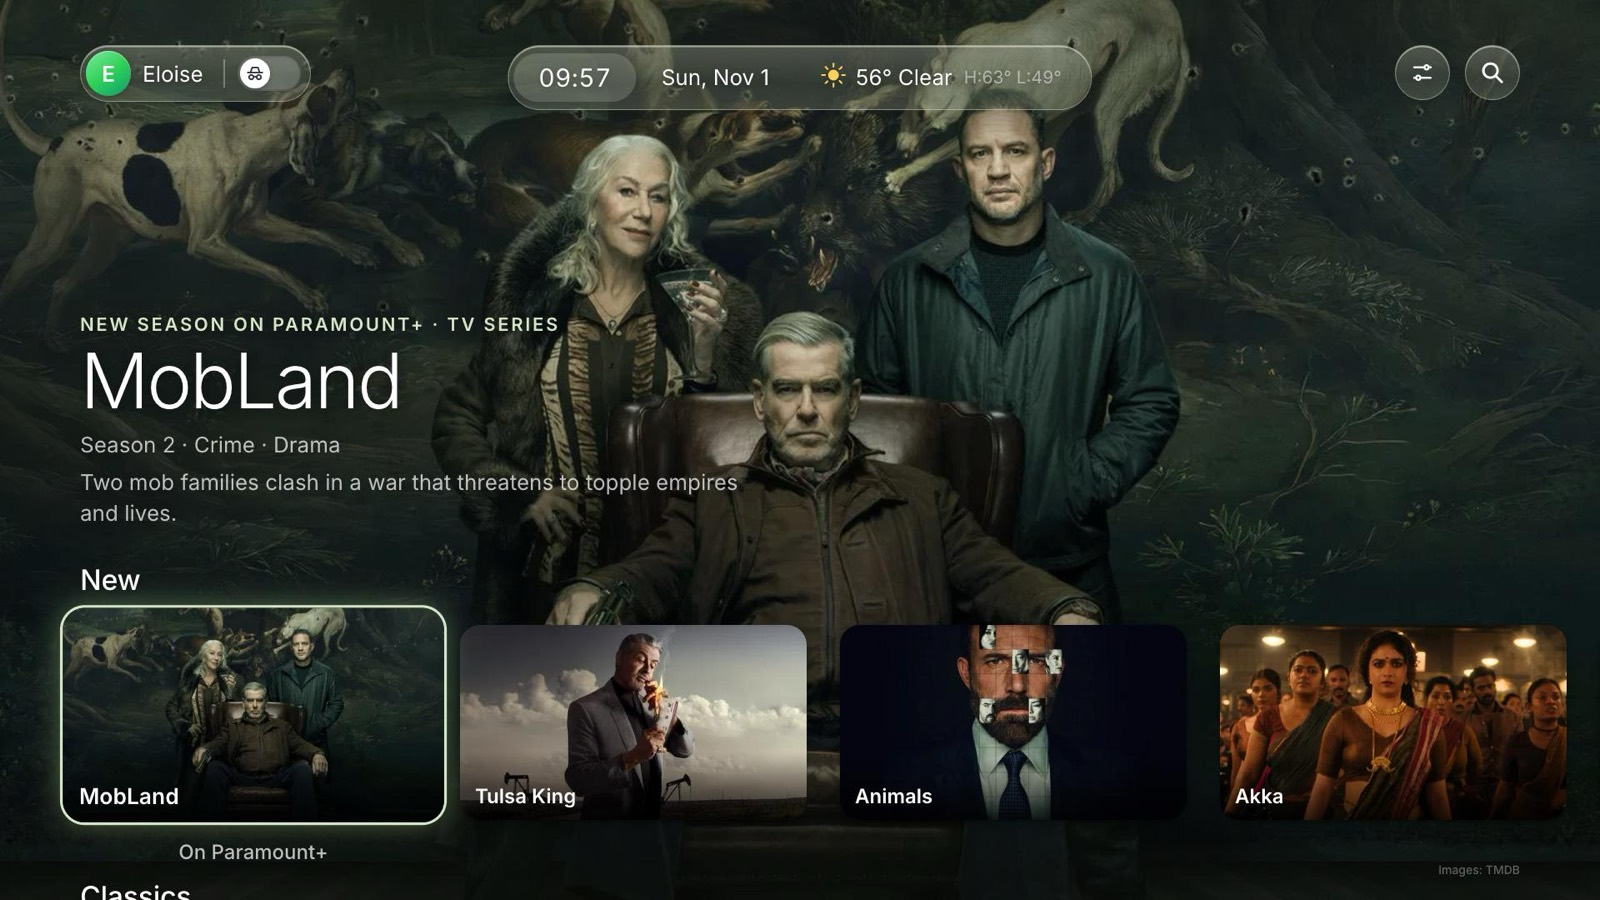
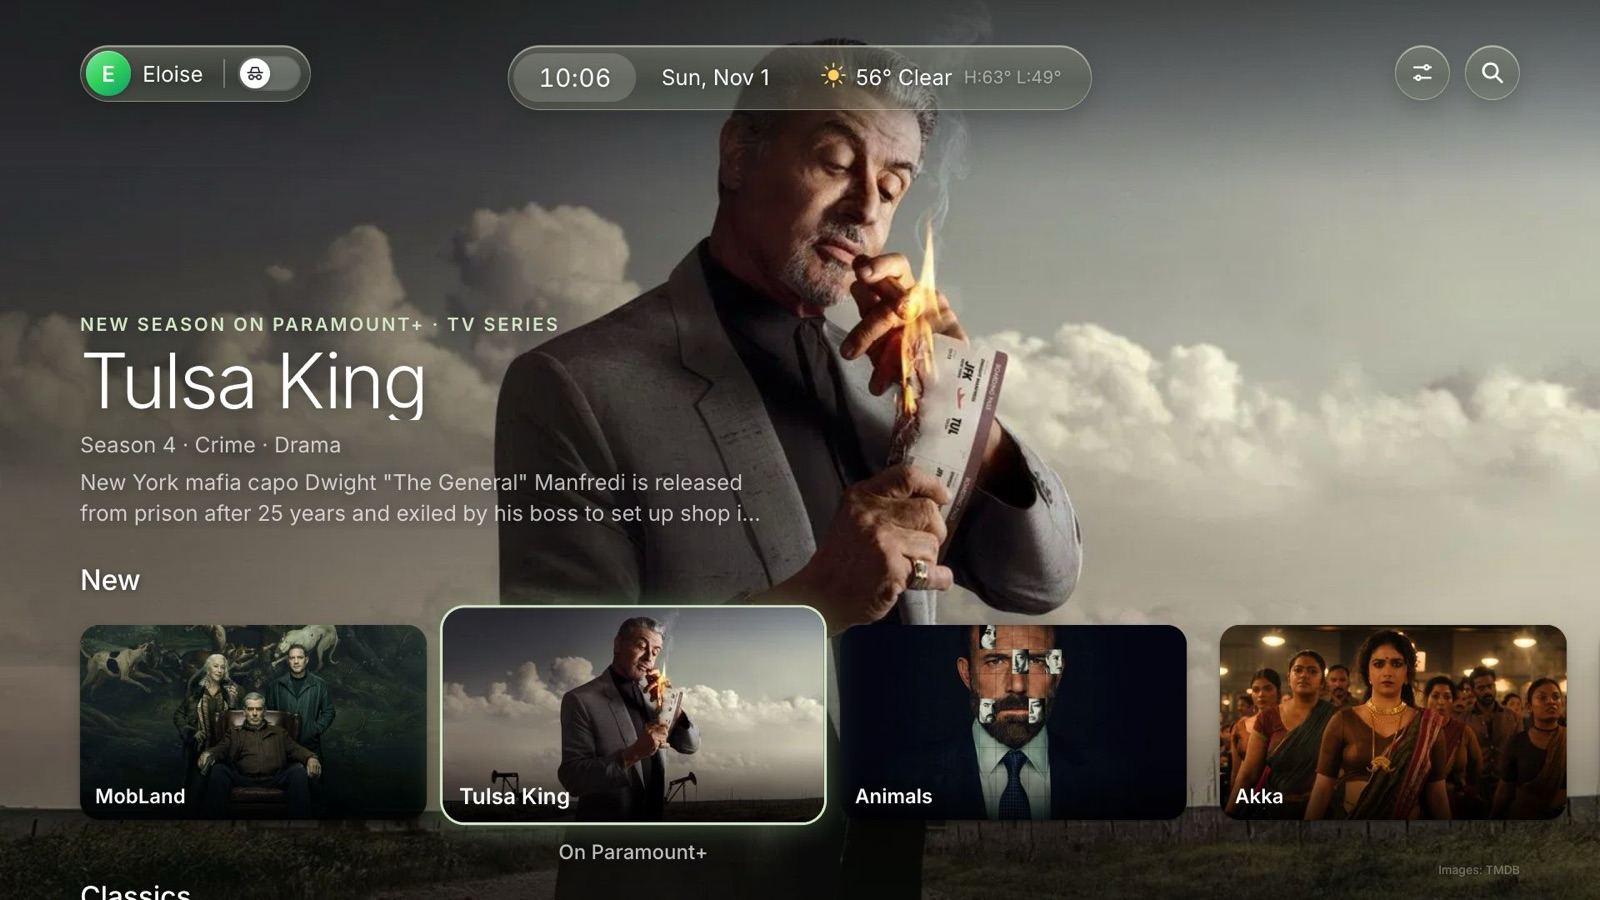
README: Tulsa King for the New row shot; wrap-around, quick start, rentals

diff --git a/README.md b/README.md
@@ -25,7 +25,8 @@ Made by Emmanuel Pozo ([@princepozo](https://x.com/princepozo)).
 - **Landscape backgrounds**, or movie and show scenes when recommendations are on
 - **Recommendations** (optional): Trending, New, Classics, Watch Later and voice search
 - **New**: films, new shows and new seasons from the last six weeks, on any service (to stream, rent
-  or buy), with a few documentaries, picked for each profile
+  or buy), with a few documentaries, picked for each profile. Rentals open in Prime Video, Apple TV
+  or YouTube when you have them
 - **Thumbs up/down** on any title or movie background, to steer what it suggests next
 - **Open a title in its app**: Apple TV and Hulu go straight to the title; for a service you don't
   have, "Get Philo to watch" (for example) takes you to Samsung's app store
@@ -34,6 +35,8 @@ Made by Emmanuel Pozo ([@princepozo](https://x.com/princepozo)).
   apps over landscapes) until it's switched back
 - **Five themes**: Glass, Midnight, Paper, Cinema and Nature, picked per profile from the profile menu
 - **Controls**: switch the TV's input or open its settings
+- **Quick to start**: its screen is up about a second after the TV opens it, even on a 2018 TV
+- Rows wrap around: Right past the last tile goes back to the first (hold the arrow to stop at the end)
 - Opens when the TV turns on, and comes back when you leave an app (optional)
 
 ## A look around
@@ -48,7 +51,7 @@ Made by Emmanuel Pozo ([@princepozo](https://x.com/princepozo)).
     <td>Open a title in its app, save it for later, or give it a thumbs up or down</td>
   </tr>
   <tr>
-    <td colspan="2"><img src="docs/screenshots/new.jpg" alt="The New row: a new season of MobLand, with new films and shows"></td>
+    <td colspan="2"><img src="docs/screenshots/new.jpg" alt="The New row: a new season of Tulsa King, with new films and shows"></td>
   </tr>
   <tr>
     <td colspan="2"><b>New</b>: what came out in the last six weeks, ranked for you, with new seasons marked</td>
@@ -123,7 +126,7 @@ certificate, choosing Allow on the TV), and your agent will tell you when.
 
 | | |
 | --- | --- |
-| Open an app | Left/Right, then OK. Back while it's loading cancels |
+| Open an app | Left/Right, then OK (rows wrap around at their ends). Back while it's loading cancels |
 | Recommendations | Down from the apps: Trending, New, Classics, Watch Later |
 | Thumbs up/down | OK on a title, then Right to 👍 or 👎; or Up to a movie background's buttons |
 | Switch profile or theme | Up, then OK on your name (top left) |
